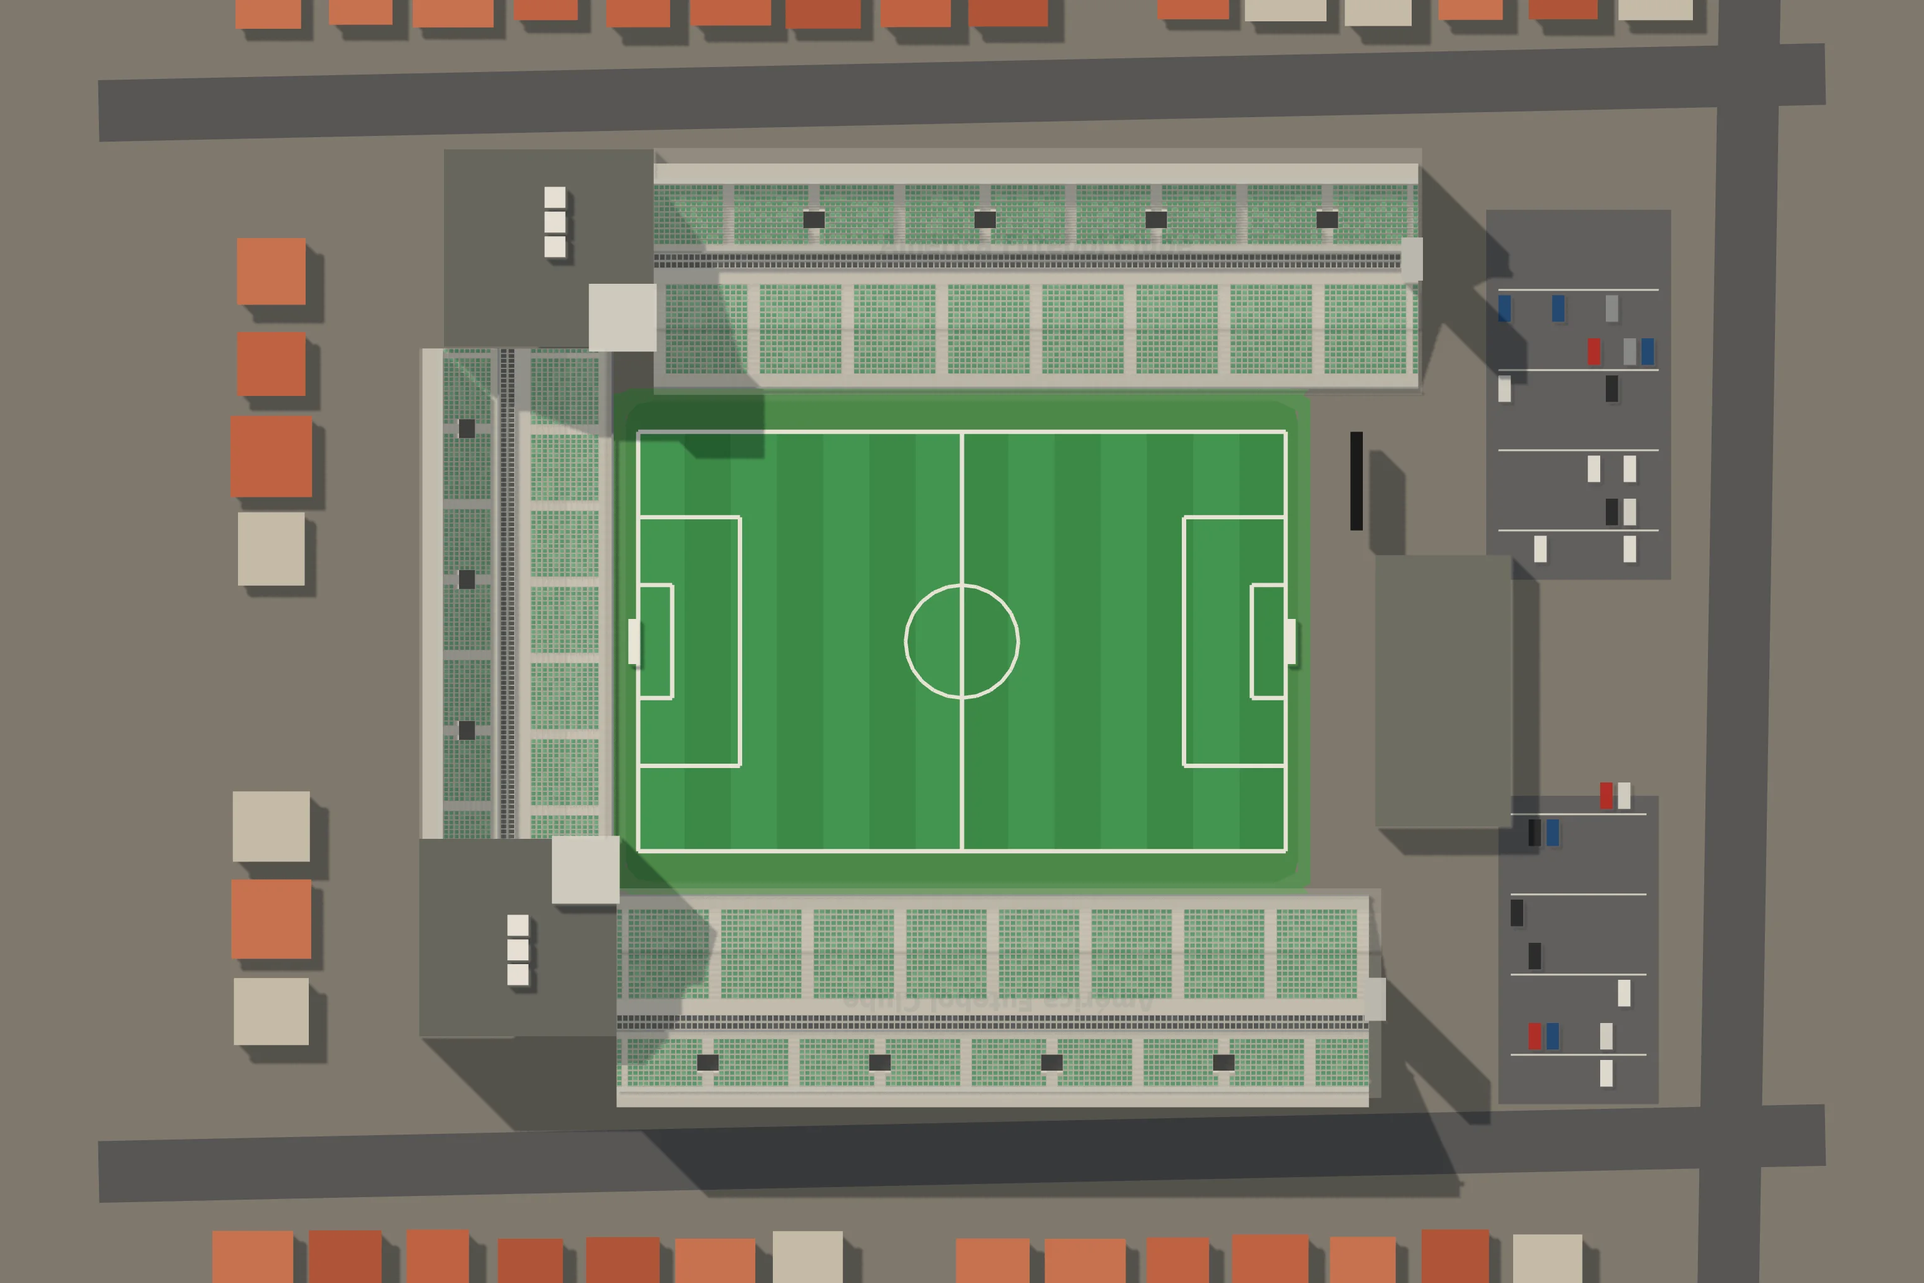
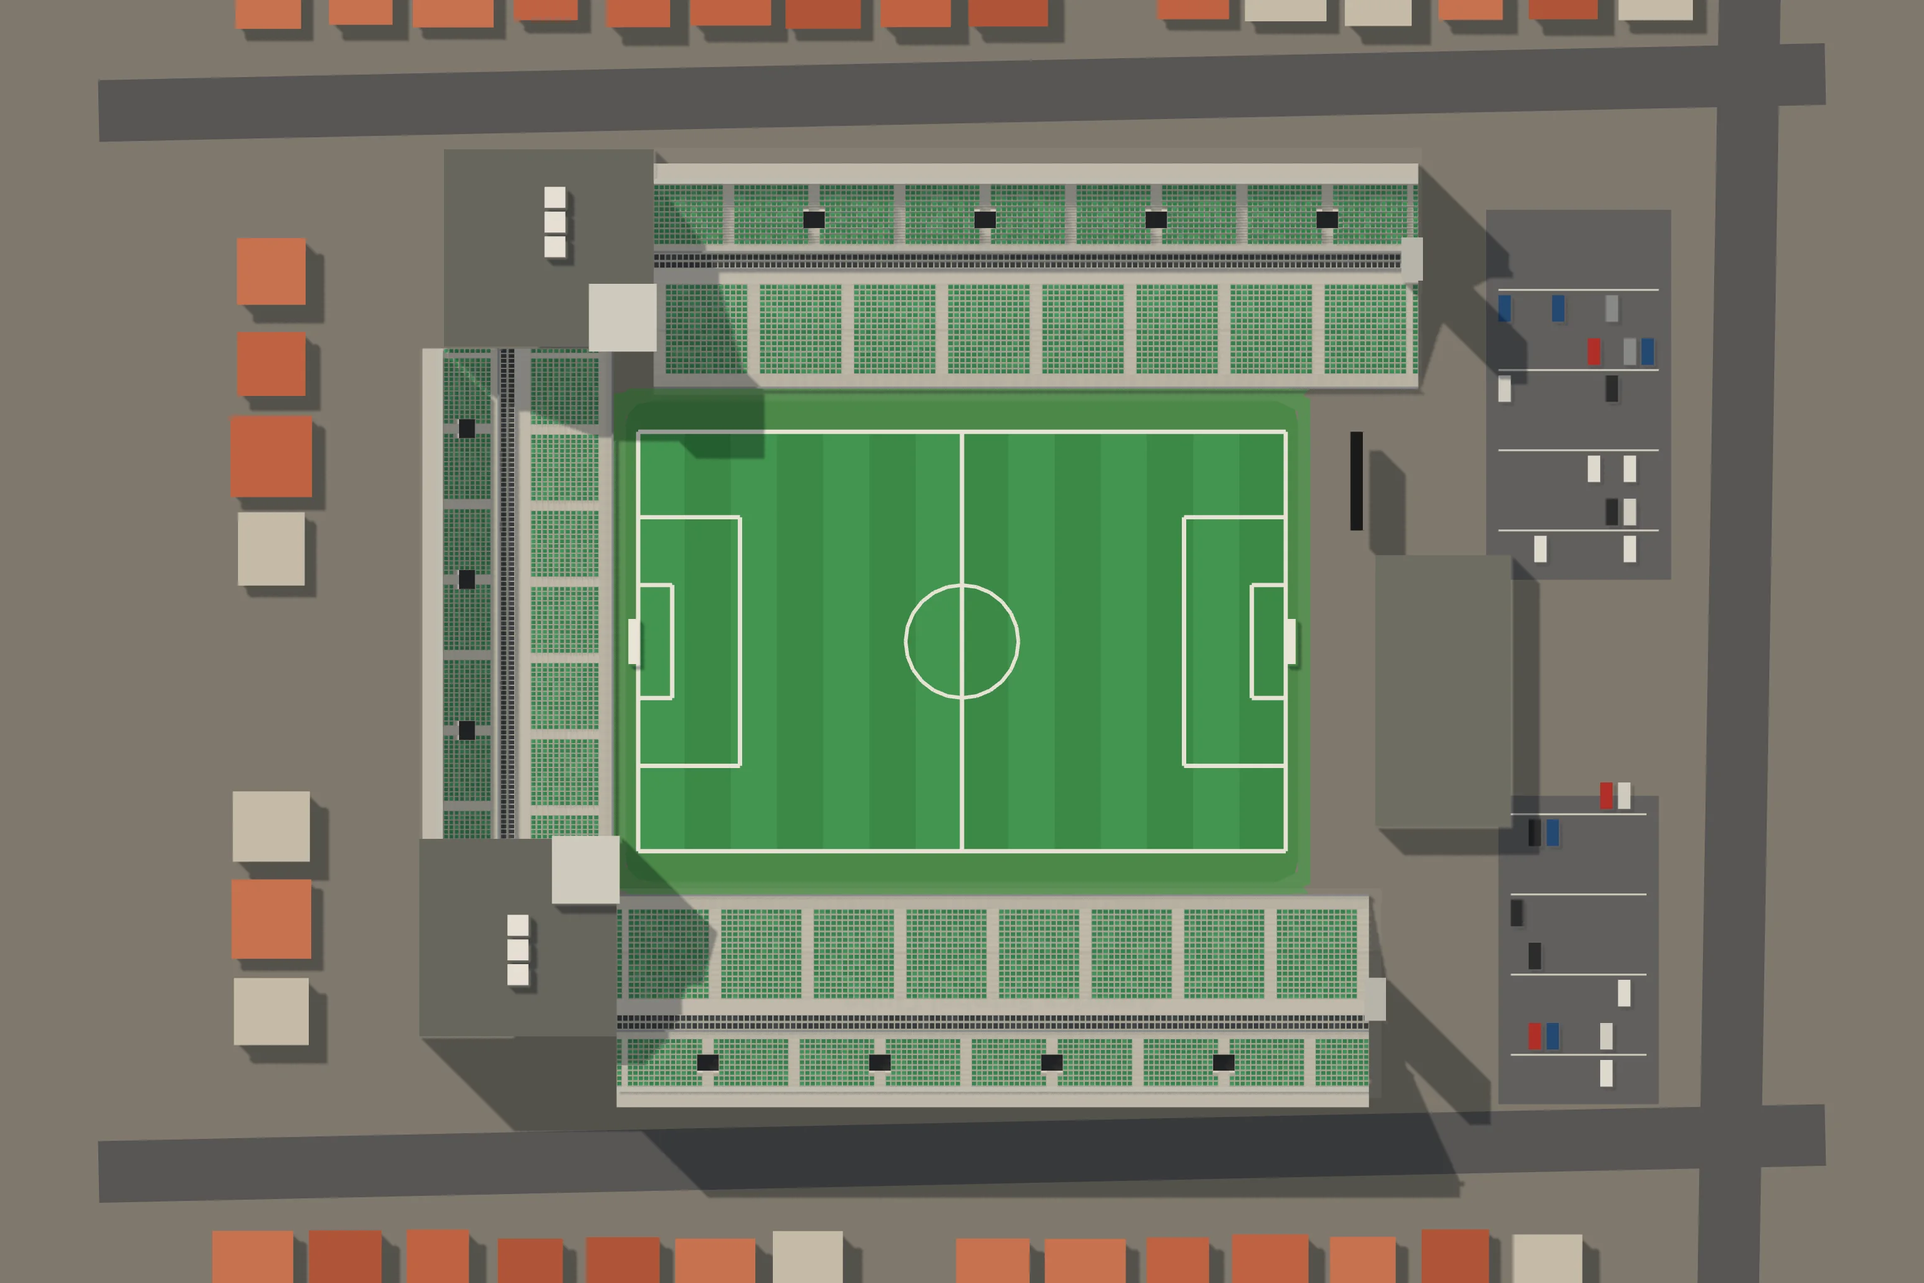
Independência: as cadeiras verdes atrás do gol à vista também de perto (telhado sem sombra e o espelho do degrau na cor do encosto), o verde mais vivo e o telhado quase transparente na vista de cima
Claude-Session: https://claude.ai/code/session_019hwwMAyyP7ZAvyq6wYTetr

Changed region(s): [[0.3438, 0.125, 0.75, 0.3125], [0.3125, 0.6875, 0.7188, 0.8438], [0.2188, 0.25, 0.3125, 0.6562]]

diff --git a/cenario3d/planta.html b/cenario3d/planta.html
@@ -289,24 +289,24 @@ button:focus-visible, input:focus-visible { outline: 2px solid var(--selecao); o
 
 <script type="module">
 import * as THREE from 'https://cdn.jsdelivr.net/npm/three@0.160.0/build/three.module.min.js';
-import { planoDaCasa, montarCasa, juntarBlocos, lugarDoDecalque, placasDoLote, segmentosDoMuro, carrosDoEstacionamento, portaoDoEstacionamento } from './js/casas3d.js?v=2d4f711591';
-import { montarModelos } from './js/modelos3d.js?v=2d4f711591';
-import { moldeDaPeca, comTransformador } from './js/props3d.js?v=2d4f711591';
-import { ATLAS } from './js/modelos_atlas.js?v=2d4f711591';
-import { Construtor, sorteio } from './js/construtor3d.js?v=2d4f711591';
-import { gerarProposta, MAPAS, MAPA_DO_PORTE, RUA, LONGE_DO_ESTADIO_M, cisaoDaPraca, VAO_CIDADES_M, PRAIA_A_MAIS } from './js/proposta.js?v=2d4f711591';
-import { montarSede, nivelQueCabe } from './js/sede3d.js?v=2d4f711591';
-import { onibus as onibusDetalhe, juntar as juntarDetalhe } from './js/detalhe3d.js?v=2d4f711591';
-import { montarLoteDeVeraneio, plantaDoLote, festaNoMundo, noMundoDoLote, cenaDaFesta, detalheDaCasaDaFesta } from './js/veraneio3d.js?v=2d4f711591';
-import { montarCaravana, cenaDaCaravana } from './js/caravana3d.js?v=2d4f711591';
-import { montarEstacao, montarTunel, montarCarro, TREM } from './js/metro3d.js?v=2d4f711591';
-import { montarShopping, montarDelegacia, montarPraca, montarIgreja, montarEscola, montarHospital } from './js/equip3d.js?v=2d4f711591';
-import { montarEquipAntigo, TIPOS_ANTIGOS } from './js/equip_antigo3d.js?v=2d4f711591';
-import { PECAS_PRAIA, montarPecaDaPraia } from './js/praia3d.js?v=2d4f711591';
-import { ESPECIES_LP, FLORA_LP, montarArvoreLowpoly, montarAsDez, facesDaArvore, especieLowpolyDe } from './js/arvores_lowpoly.js?v=2d4f711591';
-import { plantarMato, montarMato, LONGE_M, DENSIDADE, LADRILHO_M } from './js/mato3d.js?v=2d4f711591';
-import { ESTADIOS_JOGO, montarEstadioJogo, glbDoEstadio, cortarEstadio, plantaDoEstadio, modeloDaLotacao, nomeDoLetreiro, nomeComAcento, marcaDoEstadio, BOCAS_DOS_PORTOES, BILHETERIAS_DA_RUA } from './js/estadios3d.js?v=2d4f711591';
-import { PECAS_AMBULANTES, montarAmbulante } from './js/ambulantes3d.js?v=2d4f711591';
+import { planoDaCasa, montarCasa, juntarBlocos, lugarDoDecalque, placasDoLote, segmentosDoMuro, carrosDoEstacionamento, portaoDoEstacionamento } from './js/casas3d.js?v=95fa5203b2';
+import { montarModelos } from './js/modelos3d.js?v=95fa5203b2';
+import { moldeDaPeca, comTransformador } from './js/props3d.js?v=95fa5203b2';
+import { ATLAS } from './js/modelos_atlas.js?v=95fa5203b2';
+import { Construtor, sorteio } from './js/construtor3d.js?v=95fa5203b2';
+import { gerarProposta, MAPAS, MAPA_DO_PORTE, RUA, LONGE_DO_ESTADIO_M, cisaoDaPraca, VAO_CIDADES_M, PRAIA_A_MAIS } from './js/proposta.js?v=95fa5203b2';
+import { montarSede, nivelQueCabe } from './js/sede3d.js?v=95fa5203b2';
+import { onibus as onibusDetalhe, juntar as juntarDetalhe } from './js/detalhe3d.js?v=95fa5203b2';
+import { montarLoteDeVeraneio, plantaDoLote, festaNoMundo, noMundoDoLote, cenaDaFesta, detalheDaCasaDaFesta } from './js/veraneio3d.js?v=95fa5203b2';
+import { montarCaravana, cenaDaCaravana } from './js/caravana3d.js?v=95fa5203b2';
+import { montarEstacao, montarTunel, montarCarro, TREM } from './js/metro3d.js?v=95fa5203b2';
+import { montarShopping, montarDelegacia, montarPraca, montarIgreja, montarEscola, montarHospital } from './js/equip3d.js?v=95fa5203b2';
+import { montarEquipAntigo, TIPOS_ANTIGOS } from './js/equip_antigo3d.js?v=95fa5203b2';
+import { PECAS_PRAIA, montarPecaDaPraia } from './js/praia3d.js?v=95fa5203b2';
+import { ESPECIES_LP, FLORA_LP, montarArvoreLowpoly, montarAsDez, facesDaArvore, especieLowpolyDe } from './js/arvores_lowpoly.js?v=95fa5203b2';
+import { plantarMato, montarMato, LONGE_M, DENSIDADE, LADRILHO_M } from './js/mato3d.js?v=95fa5203b2';
+import { ESTADIOS_JOGO, montarEstadioJogo, glbDoEstadio, cortarEstadio, plantaDoEstadio, modeloDaLotacao, nomeDoLetreiro, nomeComAcento, marcaDoEstadio, BOCAS_DOS_PORTOES, BILHETERIAS_DA_RUA } from './js/estadios3d.js?v=95fa5203b2';
+import { PECAS_AMBULANTES, montarAmbulante } from './js/ambulantes3d.js?v=95fa5203b2';
 
 const $ = id => document.getElementById(id);
 const aviso = $('aviso');
@@ -323,25 +323,25 @@ function carregarScript(src) {
 }
 window.TO = window.TO || { dados: {} };
 try {
-  await carregarScript('dados/torcidas.js?v=2d4f711591');
-  await carregarScript('dados/times.js?v=2d4f711591');
-  await carregarScript('dados/cena_estadio.js?v=2d4f711591');
-  await carregarScript('dados/cidades.js?v=2d4f711591');
-  await carregarScript('dados/estadios.js?v=2d4f711591');
-  await carregarScript('dados/escudos.js?v=2d4f711591');
+  await carregarScript('dados/torcidas.js?v=95fa5203b2');
+  await carregarScript('dados/times.js?v=95fa5203b2');
+  await carregarScript('dados/cena_estadio.js?v=95fa5203b2');
+  await carregarScript('dados/cidades.js?v=95fa5203b2');
+  await carregarScript('dados/estadios.js?v=95fa5203b2');
+  await carregarScript('dados/escudos.js?v=95fa5203b2');
   /* o manifesto das faixas de verdade (a arte do dono, 29/09/2026): a arquibancada estende a da torcida */
-  await carregarScript('dados/faixas.js?v=2d4f711591').catch(() => {});
+  await carregarScript('dados/faixas.js?v=95fa5203b2').catch(() => {});
   /* O DOMÍNIO DOS BAIRROS (o dono, 30/09/2026): as sedes repetidas num
      bairro saem espalhadas (nos dados, na carga) e os bares ganham o
      bairro deles — o mesmo módulo do jogo (js/mundo/dominio.js) */
-  await carregarScript('js/dominio.js?v=2d4f711591').catch(() => {});
+  await carregarScript('js/dominio.js?v=95fa5203b2').catch(() => {});
 } catch (e) {
   aviso.textContent = 'A planta da cidade não carregou (' + e.message + '). Recarregue a página.';
   throw e;
 }
 /* os PNG dos escudos, embutidos (o montar.sh gera): sem o arquivo, o
    caminho vai direto pra img/escudos/ */
-await carregarScript('dados/escudos_embutidos.js?v=2d4f711591').catch(() => {});
+await carregarScript('dados/escudos_embutidos.js?v=95fa5203b2').catch(() => {});
 const P = TO.dados.plantaEstadio, K = P.CIDADE, M = P.METRO, CALC = K.CALC;
 /* o mapa da vez (o pequeno, o médio ou o grande, montado pra praça
    escolhida): quem monta é usarMapa, lá embaixo */

diff --git a/cenario3d/dados/estadios_cenas.js b/cenario3d/dados/estadios_cenas.js
@@ -11966,7 +11966,7 @@ window.__ESTADIOS = {
    "visitante": 3
   },
   "foto": {
-   "imagem": "img/cenas/estadio_independencia.webp?v=a80e65a9",
+   "imagem": "img/cenas/estadio_independencia.webp?v=94806fc2",
    "mascara": "384;384;384;384;384;384;384;384;384;384;384;384;384;384;384;384;384;384;384;384;384;384;384;384;384;384;384;384;384;384;384;384;384;129,156,99;130,154,100;130,154,100;119,171,94;120,170,94;121,169,94;122,168,94;123,167,94;123,167,94;124,166,94;125,165,94;126,164,94;127,162,95;127,161,96;128,159,97;129,156,99;130,154,100;128,159,97;129,157,98;130,154,100;130,154,100;129,157,98;130,154,100;130,154,100;106,185,93;106,185,93;106,185,93;106,185,93;106,185,93;87,1,18,185,93;87,3,16,185,93;87,5,14,185,93;87,6,13,185,93;87,8,11,185,93;87,9,10,185,93;87,11,2,1,2,1,2,185,93;85,206,93;85,206,93;85,37,1,168,93;85,38,1,167,93;85,38,3,164,94;85,38,4,161,96;85,38,5,159,97;85,38,6,156,99;85,38,7,134,120;85,177,122;85,40,134,3,122;85,39,136,2,122;85,39,136,2,122;85,39,136,2,122;85,39,136,2,122;85,39,136,2,122;85,39,136,2,122;85,39,136,2,122;85,39,136,2,122;85,39,136,2,122;85,39,136,2,122;85,39,136,2,122;85,39,136,2,122;85,39,136,2,122;85,39,136,2,122;85,39,136,2,122;85,39,136,2,122;85,39,136,2,122;85,39,136,2,122;85,39,136,2,122;85,39,136,2,122;85,39,136,2,122;85,39,136,2,122;85,39,136,2,122;85,39,136,2,122;85,39,136,2,122;85,39,136,2,122;85,39,136,2,122;85,39,136,2,122;85,39,136,2,122;85,39,136,2,122;85,39,136,2,122;85,39,136,2,122;85,39,136,2,122;85,39,136,2,122;85,39,136,2,122;85,39,136,2,122;85,39,136,2,122;85,39,136,2,122;85,39,136,2,122;85,39,136,2,122;85,39,136,2,122;85,39,136,2,122;85,39,136,2,122;85,39,136,2,122;85,39,136,2,122;85,39,136,2,122;85,39,136,2,122;85,39,136,2,122;85,39,136,2,122;85,39,136,2,122;85,39,136,2,122;85,39,136,2,122;85,39,136,2,122;85,39,136,2,122;85,39,136,2,122;85,39,136,2,122;85,39,136,2,122;85,39,136,2,122;85,39,136,2,122;85,39,136,2,122;85,39,136,2,122;85,39,136,2,122;85,39,136,2,122;85,39,136,2,122;85,39,136,2,122;85,39,136,2,122;85,39,136,2,122;85,39,136,2,122;85,39,136,2,122;85,39,136,2,122;85,39,136,2,122;85,39,136,2,122;85,39,136,2,122;85,39,136,2,122;85,39,136,2,122;85,39,136,2,122;85,39,136,2,122;85,39,136,2,122;85,39,136,2,122;85,39,136,2,122;85,39,136,2,122;85,39,136,2,122;85,39,136,2,122;85,39,136,2,122;85,39,136,2,122;85,39,136,2,122;85,39,136,2,122;85,39,136,2,122;87,10,9,14,2,2,136,2,122;87,7,12,13,3,2,136,2,122;87,5,14,11,5,2,136,2,122;87,3,16,9,7,2,136,2,122;106,7,9,2,136,2,122;106,5,11,2,136,2,122;106,4,12,2,136,2,122;106,2,14,2,136,2,122;122,3,134,3,122;122,140,122;122,142,120;122,153,109;120,156,108;119,159,106;118,162,104;116,165,103;115,168,101;114,170,100;112,174,98;111,177,96;109,180,95;108,183,93;107,184,93;105,186,93;104,187,93;103,188,93;101,190,93;100,191,93;99,192,93;97,194,93;96,195,93;122,152,110;122,152,110;121,155,108;123,151,110;122,152,110;121,154,109;120,157,107;122,152,110;121,154,109;120,156,108;120,157,107;119,159,106;118,161,105;117,164,103;116,166,102;115,168,101;114,170,100;113,172,99;112,174,98;123,151,110;122,153,109;384;384;384;384;384;384;384;384;384;384;384;384;384;384;384;384;384;384;384;384;384;384;384;384;384;384;384;384;384;384;384;384;384;384;384;384"
   },
   "cena": {

diff --git a/cenario3d/js/jogo2d.js b/cenario3d/js/jogo2d.js
@@ -17,7 +17,7 @@
    cartão da partida cai perto da hora da bola e nada do que conta o
    placar passa na frente dele.
    ========================================================= */
-import { CASCA } from './jogo_casca.js?v=2d4f711591';
+import { CASCA } from './jogo_casca.js?v=95fa5203b2';
 
 const carregarScript = src => new Promise((ok, erro) => {
   const s = document.createElement('script');
@@ -31,17 +31,17 @@ async function montarJogo() {
   caixa.innerHTML = CASCA;
   while (caixa.firstChild) document.body.appendChild(caixa.firstChild);
   /* os escudos, as fotos das praças e as bandeiras embutidos (o `IMG()` do jogo procura aqui antes do caminho) */
-  await carregarScript('dados/imagens_jogo.js?v=2d4f711591').catch(() => {});
+  await carregarScript('dados/imagens_jogo.js?v=95fa5203b2').catch(() => {});
   /* os estádios low-poly das cenas (ferramentas/estadios/assar.js): antes do jogo, que monta as cenas quando carrega */
-  await carregarScript('dados/estadios_cenas.js?v=2d4f711591').catch(() => {});
+  await carregarScript('dados/estadios_cenas.js?v=95fa5203b2').catch(() => {});
   /* sem o rolo do feed: a tela entre os jogos é o portal */
   window.TO = window.TO || {};
   TO.semFeed = true;
-  await carregarScript('js/jogo.js?v=2d4f711591');
-  await carregarScript('js/portal.js?v=2d4f711591').catch(err => console.error('o portal não carregou:', err));
+  await carregarScript('js/jogo.js?v=95fa5203b2');
+  await carregarScript('js/portal.js?v=95fa5203b2').catch(err => console.error('o portal não carregou:', err));
   /* o boneco das cenas de imagem (os dois níveis afinados, em base64) */
-  if (!TO.dados.bonecoPertoGLB) await carregarScript('dados/boneco_glb.js?v=2d4f711591').catch(() => {});
-  await import('./bonecos3_global.js?v=2d4f711591').catch(err => console.error('o boneco das cenas não carregou:', err));
+  if (!TO.dados.bonecoPertoGLB) await carregarScript('dados/boneco_glb.js?v=95fa5203b2').catch(() => {});
+  await import('./bonecos3_global.js?v=95fa5203b2').catch(err => console.error('o boneco das cenas não carregou:', err));
   ligar();
 }
 

diff --git a/cenario3d/jogo.html b/cenario3d/jogo.html
@@ -9,16 +9,16 @@
 <link rel="preconnect" href="https://fonts.googleapis.com">
 <link rel="preconnect" href="https://fonts.gstatic.com" crossorigin>
 <link rel="stylesheet" href="https://fonts.googleapis.com/css2?family=Barlow+Semi+Condensed:wght@500;600;700&family=Barlow:wght@400;500;600&family=IBM+Plex+Mono:wght@400;500&display=swap">
-<link rel="stylesheet" href="css/jogo.css?v=2d4f711591">
-<link rel="stylesheet" href="css/jogo3d.css?v=2d4f711591">
-<link rel="stylesheet" href="css/portal.css?v=2d4f711591">
-<link rel="stylesheet" href="css/telas3d.css?v=2d4f711591">
+<link rel="stylesheet" href="css/jogo.css?v=95fa5203b2">
+<link rel="stylesheet" href="css/jogo3d.css?v=95fa5203b2">
+<link rel="stylesheet" href="css/portal.css?v=95fa5203b2">
+<link rel="stylesheet" href="css/telas3d.css?v=95fa5203b2">
 <style>
 [hidden] { display: none !important; }
 html, body { height: 100%; margin: 0; }
 </style>
 </head>
 <body class="jogo3d">
-<script type="module" src="js/jogo2d.js?v=2d4f711591"></script>
+<script type="module" src="js/jogo2d.js?v=95fa5203b2"></script>
 </body>
 </html>

diff --git a/cenario3d/js/casas3d.js b/cenario3d/js/casas3d.js
@@ -60,10 +60,10 @@
    avançam (`rec`), e o letreiro, a pixação e a falha de reboco do
    bairro vão pro plano dessa parede, não pro da divisa.
    ========================================================= */
-import { Construtor, METRO, mureta, toldo, arSplit, sorteio } from './construtor3d.js?v=2d4f711591';
-import { ATLAS } from './modelos_atlas.js?v=2d4f711591';
+import { Construtor, METRO, mureta, toldo, arSplit, sorteio } from './construtor3d.js?v=95fa5203b2';
+import { ATLAS } from './modelos_atlas.js?v=95fa5203b2';
 /* as lojas do assalto (lojas3d.js): modelos de lote como os outros */
-import { TIPOS_LOJA, REC_LOJA, placaDaLoja } from './lojas3d.js?v=2d4f711591';
+import { TIPOS_LOJA, REC_LOJA, placaDaLoja } from './lojas3d.js?v=95fa5203b2';
 
 /* o arquivo de cada folha, pro bairro montar o material dele */
 export const arquivoDaFolha = folha => ATLAS[folha].arquivo;

diff --git a/cenario3d/js/ambulantes3d.js b/cenario3d/js/ambulantes3d.js
@@ -27,8 +27,8 @@
    que a planta acha o lugar dela na calçada do estádio. `sol`: o meio e
    o raio da copa ([x, z, r]), que o mapa desenha de perto.
    ========================================================= */
-import { Construtor, noMundo, placasNoMundo, sorteio, esfera, unit } from './construtor3d.js?v=2d4f711591';
-import { Lugar, barra, tubo, cilindro, bloco, pano, toro, guardaSol, cadeiraPlastica, isopor, banqueta, CORES_SOL } from './praia3d.js?v=2d4f711591';
+import { Construtor, noMundo, placasNoMundo, sorteio, esfera, unit } from './construtor3d.js?v=95fa5203b2';
+import { Lugar, barra, tubo, cilindro, bloco, pano, toro, guardaSol, cadeiraPlastica, isopor, banqueta, CORES_SOL } from './praia3d.js?v=95fa5203b2';
 
 const AQUI = Lugar();
 const escolha = (rnd, lista) => lista[Math.floor(rnd() * lista.length) % lista.length];

diff --git a/cenario3d/js/praia3d.js b/cenario3d/js/praia3d.js
@@ -36,8 +36,8 @@
    cadeira e a mesa de plástico) servem também os ambulantes da porta do
    estádio (ambulantes3d.js), na mesma folha.
    ========================================================= */
-import { Construtor, METRO, lerp, sub, soma, esc, unit, pv, noMundo, placasNoMundo, sorteio, varrer, esfera } from './construtor3d.js?v=2d4f711591';
-import { montarArvoreLowpoly } from './arvores_lowpoly.js?v=2d4f711591';
+import { Construtor, METRO, lerp, sub, soma, esc, unit, pv, noMundo, placasNoMundo, sorteio, varrer, esfera } from './construtor3d.js?v=95fa5203b2';
+import { montarArvoreLowpoly } from './arvores_lowpoly.js?v=95fa5203b2';
 
 const ALTO = [0, 1, 0];
 const escolha = (rnd, lista) => lista[Math.floor(rnd() * lista.length) % lista.length];

diff --git a/cenario3d/js/modelos3d.js b/cenario3d/js/modelos3d.js
@@ -32,8 +32,8 @@
    requadro da janela, toldo, ar-condicionado. O resto é pintura.
    ========================================================= */
 import * as THREE from 'https://cdn.jsdelivr.net/npm/three@0.160.0/build/three.module.min.js';
-import { ATLAS } from './modelos_atlas.js?v=2d4f711591';
-import { Construtor, METRO, lerp, sub, soma, esc, pv, pe, unit, recuoPoligono, mureta, toldo, arSplit } from './construtor3d.js?v=2d4f711591';
+import { ATLAS } from './modelos_atlas.js?v=95fa5203b2';
+import { Construtor, METRO, lerp, sub, soma, esc, pv, pe, unit, recuoPoligono, mureta, toldo, arSplit } from './construtor3d.js?v=95fa5203b2';
 
 /* =======================================================
    1. A IGREJA MATRIZ

diff --git a/cenario3d/js/props3d.js b/cenario3d/js/props3d.js
@@ -26,8 +26,8 @@
    poste vira uma haste de longe; o resto, que é miúdo, some.
    ========================================================= */
 import * as THREE from 'https://cdn.jsdelivr.net/npm/three@0.160.0/build/three.module.min.js';
-import { ATLAS } from './modelos_atlas.js?v=2d4f711591';
-import { Construtor, METRO, lerp } from './construtor3d.js?v=2d4f711591';
+import { ATLAS } from './modelos_atlas.js?v=95fa5203b2';
+import { Construtor, METRO, lerp } from './construtor3d.js?v=95fa5203b2';
 
 /* as cores que o vértice dá pro que sai claro na folha */
 const COR_CESTO = ['#6aa33a', '#d2b53a', '#3f82ad', '#8b6a3c', '#b8452f'];

diff --git a/cenario3d/js/mato3d.js b/cenario3d/js/mato3d.js
@@ -19,8 +19,8 @@
 
    Tudo em metros; `noMundo` converte. A mesma semente dá o mesmo mato.
    ========================================================= */
-import { METRO, noMundo, sorteio } from './construtor3d.js?v=2d4f711591';
-import { facesDaArvore, especieLowpolyDe } from './arvores_lowpoly.js?v=2d4f711591';
+import { METRO, noMundo, sorteio } from './construtor3d.js?v=95fa5203b2';
+import { facesDaArvore, especieLowpolyDe } from './arvores_lowpoly.js?v=95fa5203b2';
 
 /* a área de chão de cada árvore (m²), por lugar */
 export const DENSIDADE = { mata: 70, cerrado: 200, caatinga: 150, sul: 90, praia: 120, cidade: 250 };

diff --git a/cenario3d/js/bonecos3_global.js b/cenario3d/js/bonecos3_global.js
@@ -14,7 +14,7 @@
    DOMContentLoaded: quem usa (a ponte, numa cena aberta pelo jogador)
    chega muito depois.
    ========================================================= */
-import { montar, desenharDeCima, desenharVitrine, limparDeCima, fotoDoTrofeu, fotoDaBriga, fotoDaCena, perdeu, bonecos } from './bonecos3_cena.js?v=2d4f711591';
+import { montar, desenharDeCima, desenharVitrine, limparDeCima, fotoDoTrofeu, fotoDaBriga, fotoDaCena, perdeu, bonecos } from './bonecos3_cena.js?v=95fa5203b2';
 
 window.TO = window.TO || {};
 TO.diaJogo = TO.diaJogo || {};

diff --git a/cenario3d/js/bonecos3_cena.js b/cenario3d/js/bonecos3_cena.js
@@ -103,7 +103,7 @@
       numa fase sorteada (quem sai junto não sai no mesmo pé).
    ========================================================= */
 import * as THREE from 'https://cdn.jsdelivr.net/npm/three@0.160.0/build/three.module.min.js';
-import { GLTFLoader, SkeletonUtils } from './GLTFLoader.js?v=2d4f711591';
+import { GLTFLoader, SkeletonUtils } from './GLTFLoader.js?v=95fa5203b2';
 
 /* onde o modelo mora, quando não vem embutido em base64: o detalhado
    (o do Blender) e os dois níveis afinados dele (ferramentas/afinar_boneco.mjs) */
